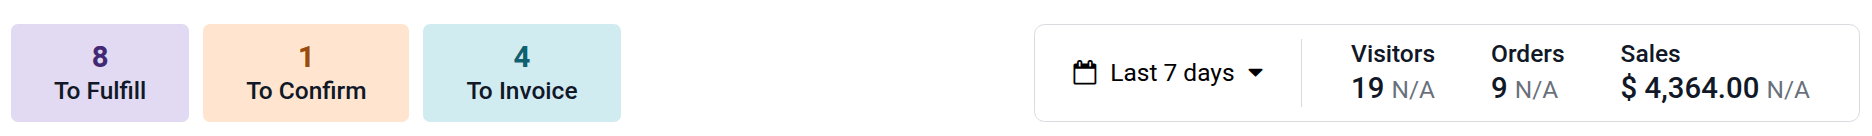
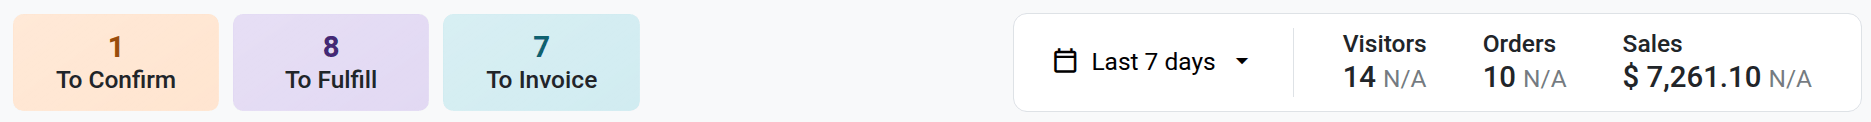
[IMP] eCommerce: withdrawal request feature & order handling page
task-6657049
task-6680930

diff --git a/content/applications/websites/ecommerce/order_handling.rst b/content/applications/websites/ecommerce/order_handling.rst
@@ -28,10 +28,10 @@ records.
 The dashboard at the top of the :guilabel:`Orders` page provides a summary of the orders and
 includes the following filter buttons:
 
-- :guilabel:`To Fulfill`: confirmed and paid orders (i.e., :ref:`sales orders
-  <ecommerce/handling/sales-sales-order>`)
 - :guilabel:`To Confirm`: unpaid and unconfirmed orders (i.e., :ref:`sent but unconfirmed quotations
   <ecommerce/handling/sales-quotation-sent>`)
+- :guilabel:`To Fulfill`: confirmed and paid orders (i.e., :ref:`sales orders
+  <ecommerce/handling/sales-sales-order>`)
 - :guilabel:`To Invoice`: confirmed orders that are ready for invoicing but have not necessarily
   been fulfilled (i.e., :ref:`sales orders <ecommerce/handling/sales-sales-order>`)
 
@@ -101,19 +101,57 @@ To enable abandoned cart reminders:
 #. In the :guilabel:`eCommerce` section, enable :guilabel:`Follow up abandoned carts`.
 #. Set the time delay after which the reminder email is sent in the :guilabel:`Send after` field,
    then click :guilabel:`Save`.
-#. If needed, click the :icon:`fa-arrow-right` :guilabel:`Customize Abandoned Email Template`
-   link to customize the :doc:`email template </applications/general/companies/email_template>`.
+#. If needed, click the :icon:`fa-arrow-right` (:guilabel:`Internal link`) icon to customize the
+   :doc:`email template </applications/general/companies/email_template>`.
+
+.. tip::
+   If the :doc:`WhatsApp app </applications/productivity/whatsapp>` is :ref:`installed
+   <general/install>`, you can also select a :ref:`WhatsApp template
+   <productivity/whatsapp/templates>` and click the :icon:`fa-arrow-right` (:guilabel:`Internal
+   link`) icon to customize it. To send a WhatsApp message, customers must have a mobile phone
+   number set.
 
 To view all abandoned carts, go to :menuselection:`Website --> eCommerce --> Orders` and remove
-the :guilabel:`Confirmed` filter. Open the :icon:`fa-caret-down` dropdown menu and, under
-:guilabel:`Filters`, select :guilabel:`Abandoned`.
+the :guilabel:`Confirmed` filter. Then, click the :guilabel:`Search...` bar and, under
+:icon:`fa-filter` :guilabel:`Filters`, select :guilabel:`Abandoned`.
 
 .. note::
-   - To receive reminders, customers must have entered their contact details during
-     checkout or be logged in when adding items to the cart. Without the customer details, it
-     remains a :ref:`quotation <ecommerce/handling/sales>` with no follow-up.
+   - To receive reminders, customers must have entered their contact details during checkout or be
+     logged in when adding items to the cart. Without the customer details, it remains a
+     :ref:`quotation <ecommerce/handling/sales>` with no follow-up.
    - Abandoned cart reminders are only sent for carts created after the feature is enabled.
      Existing abandoned carts are not affected.
+
+.. _ecommerce/order_handling/withdrawal-request:
+
+Withdrawal requests
+-------------------
+
+Add a withdrawal request form to your website to allow customers to easily request the cancellation
+of an order by entering their email address and order number.
+
+.. note::
+   Providing a clearly visible withdrawal request button is mandatory for businesses in the European
+   Union to comply with the `EU Directive 2023/2673
+   <https://eur-lex.europa.eu/eli/dir/2023/2673/oj/eng>`_.
+
+To configure it, follow these steps:
+
+#. Go to the page on which the form should be added.
+#. Open the website builder.
+#. Add the :guilabel:`Contact & Forms` :ref:`building block <website/building_blocks/add>`.
+#. Choose the :guilabel:`Request Withdrawal` :ref:`action <building_blocks/forms/action>`.
+#. Enter the :guilabel:`Recipient Emails` that should receive the withdrawal requests. Multiple
+   email addresses can be entered, separated by commas.
+#. Customize the form :ref:`fields <building_blocks/forms/fields>` and the :ref:`button
+   <website/elements/buttons>`.
+
+When a customer submits a withdrawal request, the specified recipients receive an email
+notification. The request is also logged in the chatter of the corresponding order, where you can
+review it and :guilabel:`Cancel` the order if appropriate.
+
+.. note::
+   The order must have been confirmed to send the request.
 
 .. _ecommerce/handling/rating-request:
 
@@ -124,7 +162,6 @@ Once an order is confirmed, you can automatically send customers a rating reques
 leave a review for the products they purchased.
 
 To enable automated rating requests:
-
 
 #. Go to :menuselection:`Website --> Configuration --> Settings`.
 #. In the :guilabel:`eCommerce` section, enable :guilabel:`Request ratings`.
@@ -147,7 +184,7 @@ Delivery
      </applications/sales/subscriptions>` products.
 
 Once a sales order is confirmed, a delivery order is automatically created. To access it, click
-the :icon:`fa-truck` :guilabel:`Delivery` smart button on the sales order.
+the :icon:`local_shipping` :guilabel:`Delivery` smart button on the sales order.
 
 The next step is preparing e-commerce orders in the warehouse. Depending on order volume, refill and
 stock management strategies, or available resources, different :doc:`stock handling flows
@@ -250,7 +287,7 @@ be generated manually or automatically.
 To automate invoicing:
 
 #. Go to :menuselection:`Website --> Configuration --> Settings`.
-#. In the :guilabel:`eCommerce` section, enable :guilabel:`Automatic Invoice`.
+#. In the :guilabel:`eCommerce` section, enable :guilabel:`Automatic Invoicing`.
 #. Select the relevant :guilabel:`Email Template`, then click :guilabel:`Save`.
 #. If needed, click the :icon:`fa-arrow-right` (:guilabel:`Internal link`) icon next to the template
    name to customize the :doc:`email template </applications/general/companies/email_template>`.

diff --git a/content/applications/websites/website/web_design/building_blocks/forms.rst b/content/applications/websites/website/web_design/building_blocks/forms.rst
@@ -24,7 +24,7 @@ desired :guilabel:`Action`:
 - :doc:`Subscribe to Newsletter </applications/marketing/email_marketing/mailing_lists>`
 - :ref:`Create a Shift <planning/create-shift>`
 - :doc:`Create a Task </applications/services/project/tasks/task_creation>`
-- :doc:`Request Withdrawal </applications/websites/ecommerce/order_handling>`
+- :ref:`Request Withdrawal <ecommerce/order_handling/withdrawal-request>`
 - :guilabel:`More models`: to generate other types of records
 
 By default, submitting the form redirects visitors to a *Thank you* page. Use the :guilabel:`URL`
